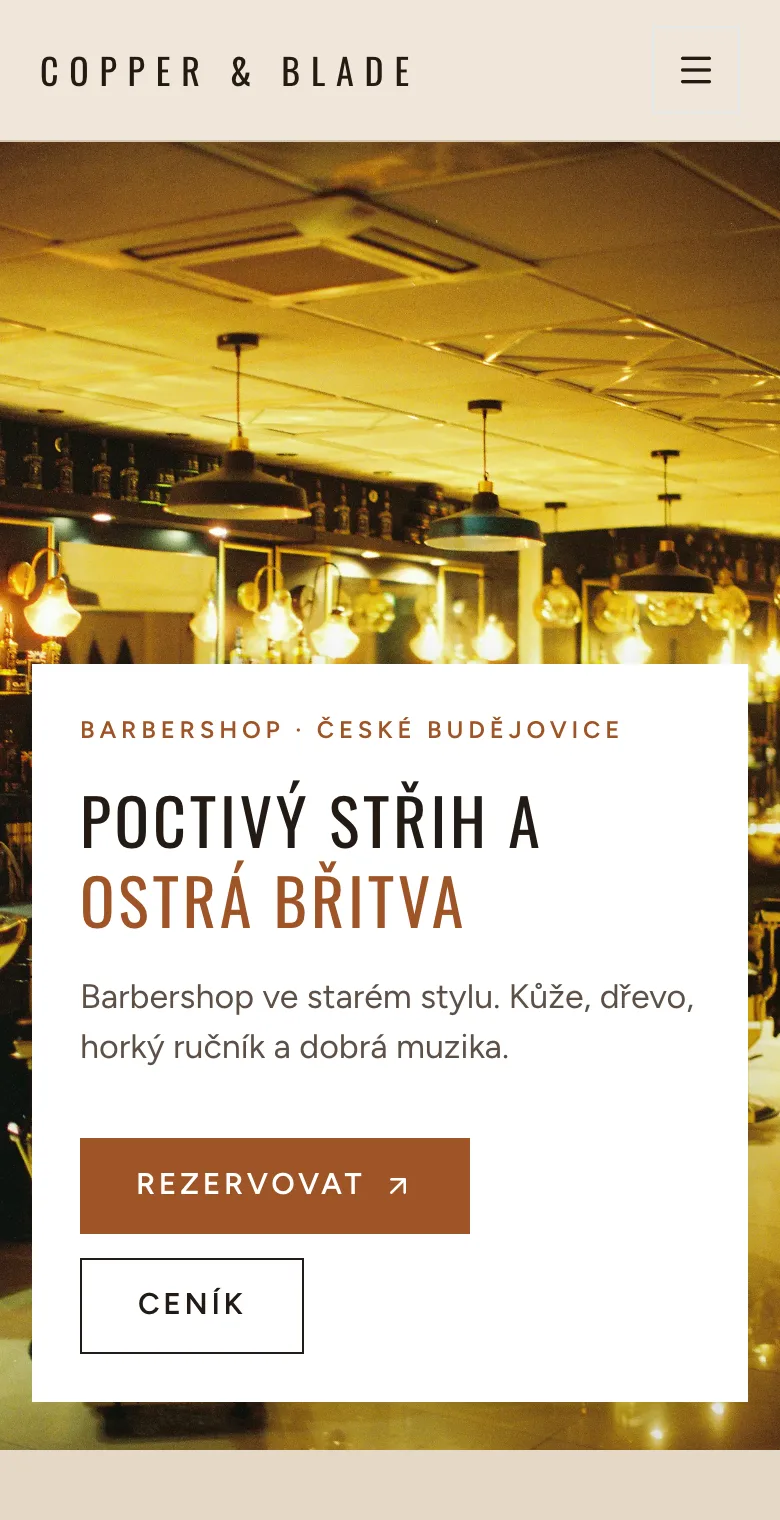
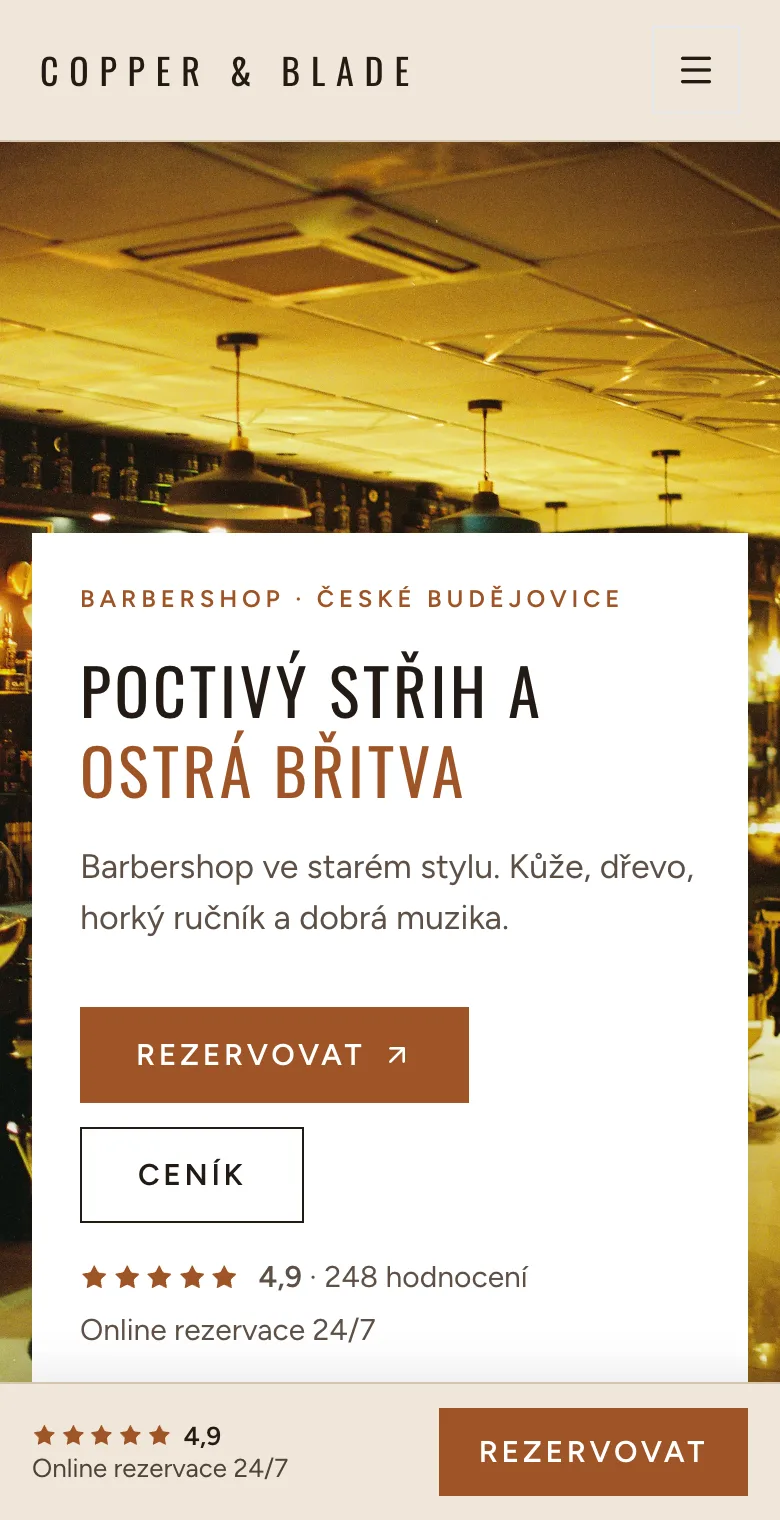
Website templates, premium round 3: the last 11 kit demos
velour-nails, copper-barber, lotus-thai, curl-club, bridal-suite,
mono-nails, gentlemans-club, riverside-spa, aqua-pedi, halo-color,
mila-beauty get the rating line, reviews strip, hours + address +
illustrative map, multi-column footer and the phone booking bar.
All 24 kit demos are now on the premium layout. Previews re-captured.

Claude-Session: https://claude.ai/code/session_017c4zKCY4B7y9u7XMffj4Nh

diff --git a/src/components/website/templates/content/extras.ts b/src/components/website/templates/content/extras.ts
@@ -247,4 +247,126 @@ export const EXTRAS: Record<string, Extras> = {
       { text: "Rychlé, čisté a přesné. Objednání online za minutu.", name: "My", service: "Úprava a barvení" },
     ],
   },
+  // Đợt 3 (kit)
+  "velour-nails": {
+    rating: "4,9",
+    count: 187,
+    transit: "Metro 4 minuty pěšky, tramvaj před domem",
+    area: "Nové Město",
+    reviews: [
+      { text: "Trang nakreslila na nehty malé kytičky přesně podle mé předlohy. Umělkyně.", name: "Nikola", service: "Zdobení" },
+      { text: "Gelová modeláž drží skvěle, tvar mandle přesně jak jsem chtěla.", name: "Kristýna", service: "Gelová modeláž" },
+      { text: "Sametové studio, příjemná hudba a čaj. Termín vždycky do týdne.", name: "Linh", service: "Manikúra s gel lakem" },
+    ],
+  },
+  "copper-barber": {
+    rating: "4,9",
+    count: 248,
+    transit: "Náměstí 3 minuty pěšky, parkování v ulici",
+    area: "Budějovice-střed",
+    reviews: [
+      { text: "Nejlepší fade ve městě. Lukáš si dá záležet na každém detailu.", name: "Adam", service: "Skin fade" },
+      { text: "Střih a vousy za hodinu, k tomu dobré kafe. Chodím každé tři týdny.", name: "Radek", service: "Střih a vousy" },
+      { text: "Syn se konečně nebojí stříhání. Trpěliví a vtipní barbeři.", name: "Pavel", service: "Dětský střih" },
+    ],
+  },
+  "lotus-thai": {
+    rating: "4,9",
+    count: 233,
+    transit: "Tramvaj 2 minuty pěšky, parkování ve dvoře",
+    area: "Liberec-centrum",
+    reviews: [
+      { text: "Tradiční thajská masáž jako v Bangkoku. Mali má neuvěřitelnou sílu i cit.", name: "Jiří", service: "Tradiční thajská masáž" },
+      { text: "Masáž bylinnými měšci voní ještě večer. Úžasný relax.", name: "Lenka", service: "Masáž bylinnými měšci" },
+      { text: "Krátká masáž nohou po práci, přesně to, co jsem potřebovala.", name: "Hương", service: "Masáž nohou" },
+    ],
+  },
+  "curl-club": {
+    rating: "4,9",
+    count: 179,
+    transit: "Tramvaj 3 minuty pěšky, centrum na dosah",
+    area: "Brno-střed",
+    reviews: [
+      { text: "Poprvé jsem odcházela s kudrlinami, které mají tvar. Střih na sucho je zázrak.", name: "Zuzana", service: "Curly střih na sucho" },
+      { text: "Konzultace mi vysvětlila, co dělám doma špatně. Vlasy jsou úplně jiné.", name: "Gábina", service: "Curly konzultace" },
+      { text: "Dcera má konečně ráda své kudrlinky. Děkujeme!", name: "Ivana", service: "Curly střih pro děti" },
+    ],
+  },
+  "bridal-suite": {
+    rating: "5,0",
+    count: 112,
+    transit: "Výjezd na místo po celé Praze, studio v centru",
+    area: "Staré Město",
+    reviews: [
+      { text: "Účes i líčení vydržely od obřadu až do půlnoci. Na fotkách jsem se poznala.", name: "Kateřina", service: "Balíček Nevěsta" },
+      { text: "Zkouška předem mi vzala všechny nervy. Ráno svatby proběhlo v klidu.", name: "Lea", service: "Zkouška účesu a líčení" },
+      { text: "Přijely až k nám na zámek a nalíčily i všechny družičky. Perfektní tým.", name: "Thu", service: "Líčení pro hosty" },
+    ],
+  },
+  "mono-nails": {
+    rating: "4,8",
+    count: 164,
+    transit: "Náměstí 2 minuty pěšky, parkování za domem",
+    area: "Hradec-centrum",
+    reviews: [
+      { text: "Čistý minimalistický styl a nehty bez chybičky. Hà je perfekcionistka.", name: "Alžběta", service: "Manikúra s gel lakem" },
+      { text: "Rychlá a přesná manikúra v pauze na oběd. Super.", name: "Monika", service: "Klasická manikúra" },
+      { text: "Pedikúra s gel lakem na celé léto. Moc příjemné studio.", name: "Šárka", service: "Pedikúra s gel lakem" },
+    ],
+  },
+  "gentlemans-club": {
+    rating: "4,9",
+    count: 286,
+    transit: "Metro 3 minuty pěšky, garáž za rohem",
+    area: "Staré Město",
+    reviews: [
+      { text: "Gentleman rituál je hodina a půl čistého luxusu. Ideální dárek.", name: "Richard", service: "Gentleman rituál" },
+      { text: "Otec a syn: oba ostříhaní, oba spokojení, a ještě limonáda pro malého.", name: "Daniel", service: "Otec a syn" },
+      { text: "Holení břitvou s horkým ručníkem. Pocit jako ve starém filmu.", name: "Vít", service: "Holení břitvou" },
+    ],
+  },
+  "riverside-spa": {
+    rating: "4,9",
+    count: 301,
+    transit: "Kolonáda 5 minut pěšky, parkování u hotelu",
+    area: "Karlovy Vary",
+    reviews: [
+      { text: "Wellness a masáž s výhledem na řeku. Víkend, na který nezapomeneme.", name: "Tereza", service: "Wellness a masáž" },
+      { text: "Privátní wellness pro dva bylo naprosto klidné, jen my a pára.", name: "Jan", service: "Privátní wellness pro dva" },
+      { text: "Masáž lávovými kameny bolavým zádům moc pomohla. Profesionální přístup.", name: "Věra", service: "Masáž lávovými kameny" },
+    ],
+  },
+  "aqua-pedi": {
+    rating: "4,9",
+    count: 258,
+    transit: "Autobus 2 minuty pěšky, parkování před domem",
+    area: "Pardubice",
+    reviews: [
+      { text: "Přístrojová pedikúra bez bolesti. Mai je velmi šetrná a pečlivá.", name: "Renata", service: "Přístrojová pedikúra" },
+      { text: "SPA pedikúra s koupelí a masáží, nohy jako nové.", name: "Dagmar", service: "SPA pedikúra" },
+      { text: "Chodím pravidelně každý měsíc. Vždy čisto a na čas.", name: "Olga", service: "Mokrá pedikúra" },
+    ],
+  },
+  "halo-color": {
+    rating: "4,8",
+    count: 171,
+    transit: "Metro 4 minuty pěšky, tramvaj před domem",
+    area: "Nusle",
+    reviews: [
+      { text: "Korekce barvy po domácím experimentu. Jitka mi zachránila vlasy.", name: "Petra", service: "Korekce barvy" },
+      { text: "Balayage s plánem na tři návštěvy. Výsledek přirozený a vlasy zdravé.", name: "Markéta", service: "Balayage" },
+      { text: "Test na pramenu předem a odbarvení bez lámání. Profesionálové.", name: "Nguyệt", service: "Odbarvení" },
+    ],
+  },
+  "mila-beauty": {
+    rating: "4,9",
+    count: 149,
+    transit: "Náměstí 3 minuty pěšky, parkování ve dvoře",
+    area: "Zlín",
+    reviews: [
+      { text: "Andrea mi doporučila péči na míru. Pleť je po měsíci klidná a zářivá.", name: "Hana", service: "Hydratační ošetření" },
+      { text: "Laminace obočí a masáž obličeje v jednom termínu. Skvělá hodinka pro sebe.", name: "Simona", service: "Laminace obočí" },
+      { text: "Útulný salon, kde se nikdo nespěchá. Doporučuji všem kamarádkám.", name: "Lan", service: "Masáž obličeje" },
+    ],
+  },
 };
